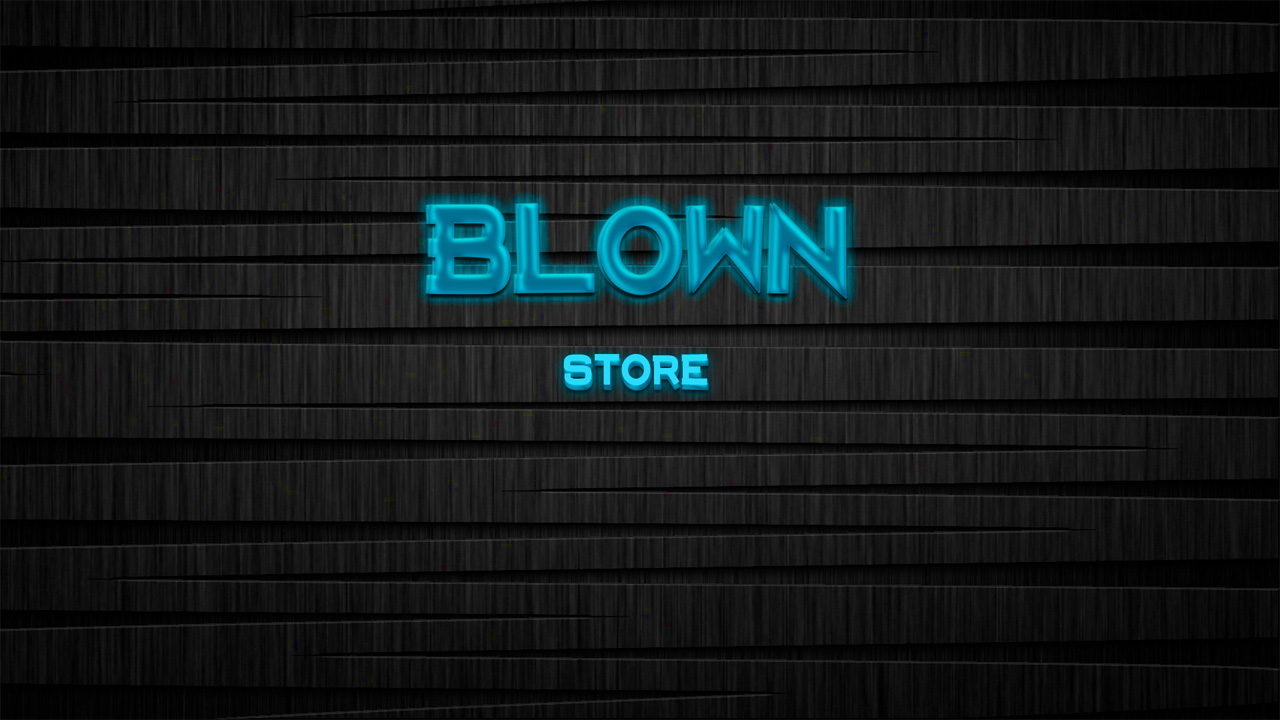
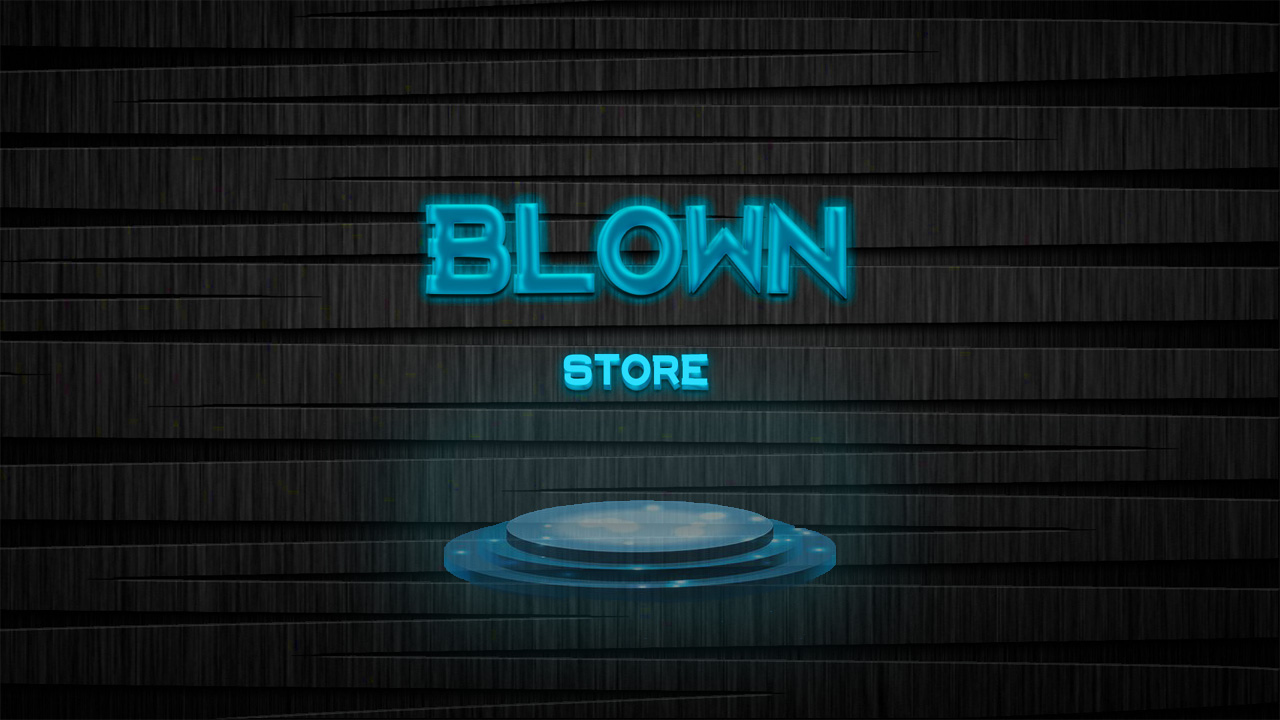
store 50%

Changed region(s): [[0.3438, 0.6722, 0.6562, 0.8556], [0.3438, 0.6111, 0.6562, 0.6417], [0.4062, 0.55, 0.5938, 0.5806]]

diff --git a/src/main/resources/styles/store.css b/src/main/resources/styles/store.css
@@ -4,6 +4,7 @@
     src: url('../fonts/AVENTURA.otf');
 }
 .root {
-     -fx-background-image: url("/images/store.jpg");
+     -fx-height:680px;
+     -fx-width:1280px;
      -fx-font-family:AVENTURA;
 }

diff --git a/src/main/java/start/Store.java b/src/main/java/start/Store.java
@@ -3,10 +3,16 @@ package start;
 import controllers.StoreController;
 import javafx.event.EventHandler;
 import javafx.fxml.FXMLLoader;
+import javafx.scene.Group;
+import javafx.scene.Node;
 import javafx.scene.Parent;
 import javafx.scene.Scene;
+import javafx.scene.control.Label;
+import javafx.scene.image.Image;
+import javafx.scene.image.ImageView;
 import javafx.scene.input.KeyCode;
 import javafx.scene.input.KeyEvent;
+import javafx.scene.paint.Color;
 import objects.Car;
 
 import java.io.*;
@@ -17,6 +23,24 @@ import java.util.Scanner;
  * Created by 4 on 02.03.2016.
  */
 public class Store {
+    final static int WIDTH = 1280;
+    final static int HEIGHT = 680;
+    final static Image BACKGROUND = new Image("/images/store.jpg");
+    private ImageView left;
+    private ImageView right;
+    private ImageView close;
+    private ImageView background;
+    private ImageView car;
+    private ImageView drive;
+    private Group root;
+    private Label lbMoney;
+    private Label outMoney;
+    private Label price;
+    private Label maxSpeed;
+    private Label nameCar;
+    private Label outPrice;
+    private int currentPositionCar;
+
     private static Scene sceneStore;
     private static Parent rootStore;
 
@@ -26,13 +50,90 @@ public class Store {
     private static ArrayList<Car> Cars = new ArrayList<Car>();
 
     public void showScene() {
+
+        root = new Group();
+        background = new ImageView(BACKGROUND);
+        left=new ImageView("images/left.png");
+        right=new ImageView("images/right.png");
+        close=new ImageView("images/close.png");
+        drive=new ImageView("images/drive.png");
+
+        lbMoney=new Label();
+        outMoney=new Label();
+        lbMoney.setText("MONEY");
+        lbMoney.setTextFill(Color.GOLD);
+        outMoney.setTextFill(Color.GOLD);
+        outMoney.setText(Double.toString(getMoney()));
+        price=new Label();
+        price.setText("PRICE CAR:");
+        price.setTextFill(Color.GOLD);
+        nameCar=new Label();
+        nameCar.setTextFill(Color.GOLD);
+        maxSpeed=new Label();
+        maxSpeed.setTextFill(Color.GOLD);
+        outPrice=new Label();
+        outPrice.setTextFill(Color.GOLD);
+        outPrice.setText(Double.toString(parseCars().get(currentPositionCar).getPrice()));
+
+        root.getChildren().add(0, background);
+        root.getChildren().get(0).setLayoutY(0);
+
+        root.getChildren().add(1,lbMoney);
+        root.getChildren().get(1).setLayoutY(10);
+        root.getChildren().get(1).setLayoutX(10);
+
+        root.getChildren().add(2,outMoney);
+        root.getChildren().get(2).setLayoutX(70);
+        root.getChildren().get(2).setLayoutY(10);
+
+        root.getChildren().add(3,left);
+        root.getChildren().get(3).setLayoutX(300);
+        root.getChildren().get(3).setLayoutY(450);
+
+        root.getChildren().add(4,right);
+        root.getChildren().get(4).setLayoutX(922);
+        root.getChildren().get(4).setLayoutY(450);
+
+
+        car=new ImageView(getCar().getImgSide());
+        root.getChildren().add(5,car);
+        root.getChildren().get(5).setLayoutX(560);
+        root.getChildren().get(5).setLayoutY(460);
+        parseCars();
+        checkCurrentCar();
+        nameCar.setText("NAME CAR: "+parseCars().get(currentPositionCar).getName());
+        maxSpeed.setText("SPEED: "+parseCars().get(currentPositionCar).getMaxSpeed()+" MPH/H");
+
+        root.getChildren().add(6,price);
+        root.getChildren().get(6).setLayoutY(400);
+        root.getChildren().get(6).setLayoutX(400);
+        root.getChildren().add(7,outPrice);
+        root.getChildren().get(7).setLayoutY(400);
+        root.getChildren().get(7).setLayoutX(480);
+
+        root.getChildren().add(8,nameCar);
+        root.getChildren().get(8).setLayoutY(400);
+        root.getChildren().get(8).setLayoutX(566);
+
+        root.getChildren().add(9,maxSpeed);
+        root.getChildren().get(9).setLayoutY(400);
+        root.getChildren().get(9).setLayoutX(750);
+
+        root.getChildren().add(10,new ImageView("images/clear.png"));
+        root.getChildren().get(10).setLayoutX(560);
+        root.getChildren().get(10).setLayoutY(460);
+
+        root.getChildren().add(11,new ImageView("images/drive.png"));
+        root.getChildren().get(11).setLayoutX(400);
+        root.getChildren().get(11).setLayoutY(430);
+
         try {
             rootStore = FXMLLoader.load(getClass().getResource("/fxml/store.fxml"));
         } catch (IOException e) {
             System.out.println("Ошибка подключения Store.fxml !!");
         }
 
-        sceneStore = new Scene(rootStore, 1290, 680);
+        sceneStore = new Scene(root, WIDTH,HEIGHT);
         sceneStore.getStylesheets().add("/styles/store.css");
         MainApp.stage.setTitle("BLOWN");
         MainApp.stage.setScene(sceneStore);
@@ -40,8 +141,55 @@ public class Store {
         sceneStore.setOnKeyPressed(new EventHandler<KeyEvent>() {
             public void handle(KeyEvent event) {
                 if (event.getCode()==KeyCode.LEFT){
+                    if (currentPositionCar>0){
+                        root.getChildren().set(4,(new ImageView("images/right.png")));
+                        root.getChildren().get(4).setLayoutX(922);
+                        root.getChildren().get(4).setLayoutY(450);;
 
+                        currentPositionCar--;
+                        car=new ImageView(parseCars().get(currentPositionCar).getImgSide());
+                        car.setLayoutY(460);
+                        car.setLayoutX(560);
+                        root.getChildren().set(5,car);
+
+                        outPrice.setText(Double.toString(parseCars().get(currentPositionCar).getPrice()));
+                        nameCar.setText("NAME CAR: "+parseCars().get(currentPositionCar).getName());
+                        maxSpeed.setText("SPEED: "+parseCars().get(currentPositionCar).getMaxSpeed()+" MPH/H");
+                    }
+                    if (currentPositionCar==0){
+                        root.getChildren().set(3,(new ImageView("images/clear.png")));
+                    }
+                    checkBuy();
+                    checkSelected();
                 }
+                if (event.getCode()==KeyCode.RIGHT){
+                    if (currentPositionCar<8){
+                        root.getChildren().set(3,(new ImageView("images/left.png")));
+                        root.getChildren().get(3).setLayoutX(300);
+                        root.getChildren().get(3).setLayoutY(450);
+
+                        currentPositionCar++;
+                        car=new ImageView(parseCars().get(currentPositionCar).getImgSide());
+                        car.setLayoutY(460);
+                        car.setLayoutX(560);
+                        root.getChildren().set(5,car);
+
+                        outPrice.setText(Double.toString(parseCars().get(currentPositionCar).getPrice()));
+                        nameCar.setText("NAME CAR: "+parseCars().get(currentPositionCar).getName());
+                        maxSpeed.setText("SPEED: "+parseCars().get(currentPositionCar).getMaxSpeed()+" MPH/H");
+                    }
+                    if (currentPositionCar==8) {
+                        root.getChildren().set(4,(new ImageView("images/clear.png")));
+                    }
+                    checkBuy();
+                    checkSelected();
+                }
+                if (event.getCode()==KeyCode.ENTER){
+//                    parseCars();
+//                    select(currentPositionCar);
+//                    rewriteStore();
+                }
+
                 if (event.getCode() == KeyCode.ESCAPE) {
                     Parent root = null;
                     try {
@@ -166,5 +314,50 @@ public class Store {
                 , (Double.parseDouble("50000.0")), (Boolean.parseBoolean("true")), (Boolean.parseBoolean("true"))));
     }
 
+    public void checkCurrentCar(){
+        for (int i=0;i<countCars;i++){
+            if (getCar().getName().equals(Cars.get(i).getName())){
+                currentPositionCar=i;
+            }
+        }
+        if (currentPositionCar==0){
+            root.getChildren().set(3,(new ImageView("images/clear.png")));
+        } else if (currentPositionCar==8){
+            root.getChildren().set(4,(new ImageView("images/clear.png")));
+        }
+    }
+
+    public void checkSelected(){
+        if ((parseCars().get(currentPositionCar).getSelected())){
+            root.getChildren().set(11,new ImageView("images/drive.png"));
+            root.getChildren().get(11).setLayoutX(400);
+            root.getChildren().get(11).setLayoutY(430);
+        } else {
+            root.getChildren().set(11,new ImageView("images/clear.png"));
+            root.getChildren().get(11).setLayoutX(400);
+            root.getChildren().get(11).setLayoutY(430);
+        }
+    }
+
+    public void checkBuy(){
+        if ((parseCars().get(currentPositionCar).getBuy())){
+            root.getChildren().set(10,new ImageView("images/clear.png"));
+            root.getChildren().get(10).setLayoutX(595);
+            root.getChildren().get(10).setLayoutY(455);
+        } else {
+            root.getChildren().set(10,new ImageView("images/close.png"));
+            root.getChildren().get(10).setLayoutX(595);
+            root.getChildren().get(10).setLayoutY(455);
+        }
+    }
+
+    public void select(int pos){
+        Cars.get(pos).setSelected(true);
+        for (int i=0;i<pos;i++){
+            if (i!=pos){
+                Cars.get(i).setSelected(false);
+            }
+        }
+    }
 
 }

diff --git a/src/main/java/objects/Car.java b/src/main/java/objects/Car.java
@@ -63,4 +63,6 @@ public class Car {
 
     public void setSelected(boolean isSelected) { this.isSelected=isSelected; }
 
+    public int getCounter(){ return this.id; }
+
 }
